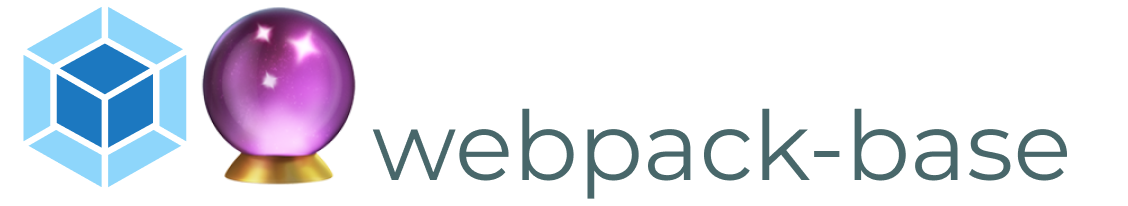
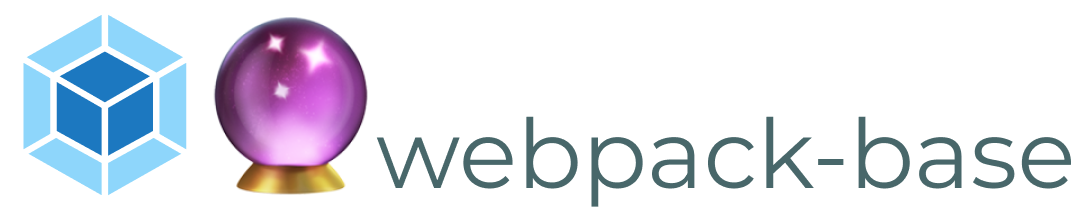
Docs: Header update 🆙

Changed region(s): [[0.0, 0.0291, 1.0, 0.9612]]

diff --git a/README.md b/README.md
@@ -1,8 +1,6 @@
-<div align="right">
+<h1 align="right">
   <img height=75 src="./docs/assets/readme-header.png" alt="webpack-base">
-</div>
-
----
+</h1>
 
 <div align="center">
 <!-- prettier-ignore-start -->
